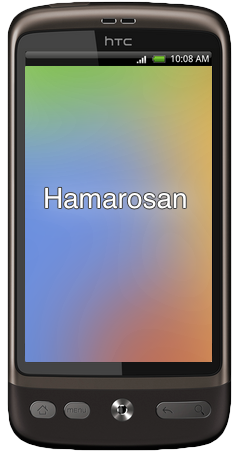
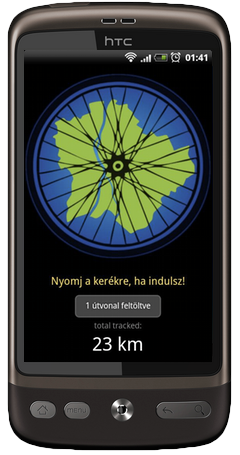
redirect android market. added qr codes. changed android app image to example image

diff --git a/index.html b/index.html
@@ -48,7 +48,21 @@
 
             .footer { clear:both; padding-top: 30px; width: 100%; text-align: center; margin-top: 40px; margin-bottom: 14px;}
 
-        </style></head>
+        </style>
+        <script type="text/javascript">
+
+            var _gaq = _gaq || [];
+            _gaq.push(['_setAccount', 'UA-23038861-1']);
+            _gaq.push(['_trackPageview']);
+
+            (function() {
+                var ga = document.createElement('script'); ga.type = 'text/javascript'; ga.async = true;
+                ga.src = ('https:' == document.location.protocol ? 'https://ssl' : 'http://www') + '.google-analytics.com/ga.js';
+                var s = document.getElementsByTagName('script')[0]; s.parentNode.insertBefore(ga, s);
+            })();
+
+        </script>
+    </head>
 
     <body>
         <div class="main_wrapper">
@@ -78,18 +92,20 @@
 
                 </div>
                 <div id="mobile_phones" style="height:440px;">
-                    <div style="padding-right:33px; padding-top:15px; padding-bottom: 100px;float:left;">
-                        <!--                        <a href="https://market.android.com/details?id=hu.cirka">-->
-                        <img style="border:0px;" src="img/mobil/android.png"/><br/>
-                        <!--                            <img style="margin-left:27px; margin-top:22px; border:0px;" src="img/mobil/android_badge.png"/>-->
-                        <!--                        </a>-->
+                    <div style="padding-right:33px; padding-top:15px;float:left;">
+                        <a href="https://market.android.com/details?id=hu.budapestcycletrack">
+                            <img style="border:0px;" src="img/mobil/android.png"/><br/>
+                            <img style="margin-left:33px; margin-top:44px; border:0px; height: 61px" src="img/mobil/android_badge.png"/><br/>
+                            <img style="margin-left:60px; margin-top:24px; border:0px; height: 130px" src="img/mobil/bpcycletrackandroid_qr.png"/>
+                        </a>
 
                     </div>
                     <div style="float:right;">
-
                         <a href="http://itunes.apple.com/hu/app/budapest-cycle-tracker/id433400907?mt=8">
                             <img style="border:0px;" src="img/mobil/iphone.png"/><br/>
-                            <img style="margin-left:34px; margin-top:22px; border:0px;" src="img/mobil/app_store_badge.png"/></a>
+                            <img style="margin-left:34px; margin-top:22px; border:0px;" src="img/mobil/app_store_badge.png"/><br/>
+                            <img style="margin-left:65px; margin-top:20px; border:0px;height: 130px" src="img/mobil/bpcycletrackiphone_qr.png"/>
+                        </a>
 
                     </div>
                 </div>

diff --git a/html/iphoneapp.html b/html/iphoneapp.html
@@ -1,0 +1,8 @@
+<!DOCTYPE HTML PUBLIC "-//W3C//DTD HTML 4.0 Transitional//EN">
+<html>
+<head>
+<meta http-equiv="REFRESH" content="0;url=http://itunes.apple.com/hu/app/budapest-cycle-tracker/id433400907?mt=8"></HEAD>
+<BODY>
+<a href="http://itunes.apple.com/hu/app/budapest-cycle-tracker/id433400907?mt=8">Budapest Cycle Track az App Store-ban</a>
+</BODY>
+</HTML>

diff --git a/html/androidapp.html b/html/androidapp.html
@@ -1,0 +1,8 @@
+<!DOCTYPE HTML PUBLIC "-//W3C//DTD HTML 4.0 Transitional//EN">
+<html>
+<head>
+<meta http-equiv="REFRESH" content="0;url=market://search?q=pname:hu.budapestcycletrack"></HEAD>
+<BODY>
+<a href="https://market.android.com/details?id=hu.budapestcycletrack">Budapest Cycle Track az Android Marketen</a>
+</BODY>
+</HTML>

diff --git a/redirect.py b/redirect.py
@@ -1,0 +1,26 @@
+from google.appengine.ext import webapp
+from google.appengine.ext.webapp.util import run_wsgi_app
+
+
+class Marketplace(webapp.RequestHandler):
+    def get(self):
+        self.response.set_status(301)
+        self.response.headers['Location'] = 'market://search?q=pname:hu.budapestcycletrack' 
+        self.response.out.write('market://search?q=pname:hu.budapestcycletrack')
+
+class Appstore(webapp.RequestHandler):
+    def get(self):
+        self.response.set_status(301)
+        self.response.headers['Location'] = 'http://itunes.apple.com/hu/app/budapest-cycle-tracker/id433400907?mt=8' 
+        self.response.out.write('http://itunes.apple.com/hu/app/budapest-cycle-tracker/id433400907?mt=8')
+
+application = webapp.WSGIApplication(
+                                     [('/marketplace', Marketplace),
+                                      ('/appstore', Appstore)],
+                                     debug=True)
+
+def main():
+    run_wsgi_app(application)
+
+if __name__ == "__main__":
+    main()
